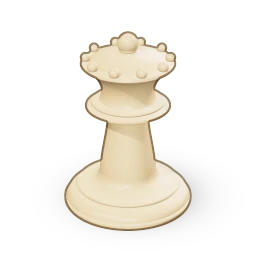
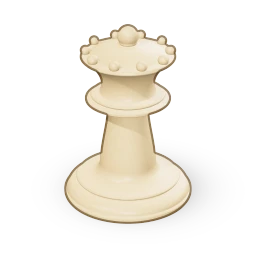
Centre the 3D pieces optically, not just geometrically
Measured on a phone screenshot, every 3D piece still had 2 to 6% more
space above it than below: the outline was centred with a slight
downward bias, and a Staunton piece is bottom-heavy (wide foot, contact
shadow), so even an exactly centred outline reads as low. The sprites are
re-rendered with each piece's outline 1.6% above the centre, so the piece
and its shadow sit balanced in the square.

Claude-Session: https://claude.ai/code/session_01KFb3ABkibAbG8eFNECk8qP

Changed region(s): [[0.25, 0.0938, 0.75, 0.9062], [0.4375, 0.6875, 0.5, 0.7188], [0.3125, 0.7188, 0.3438, 0.75]]

diff --git a/scripts/pieces/staunton3d.js b/scripts/pieces/staunton3d.js
@@ -907,9 +907,10 @@ function frameCamera(cam, king, fill = 0.88) {
 /**
  * Moves the framed projection up or down so this piece's middle sits `drop` (a fraction of the
  * sprite) below the sprite's centre: every piece stands in the middle of its square, a pawn as
- * much as a king. The small drop leaves room above for the contact shadow's weight below the foot.
+ * much as a king. The drop is negative: a Staunton piece is bottom-heavy (a wide foot and its
+ * contact shadow), so its outline sits a little above the centre to look centred.
  */
-function centerCamera(cam, framed, piece, drop = 0.012) {
+function centerCamera(cam, framed, piece, drop = -0.016) {
   cam.projectionMatrix.copy(framed);
   const [ymin, ymax] = extent(cam, piece);
   const t = -(ymin + ymax) / 2 - 2 * drop;
